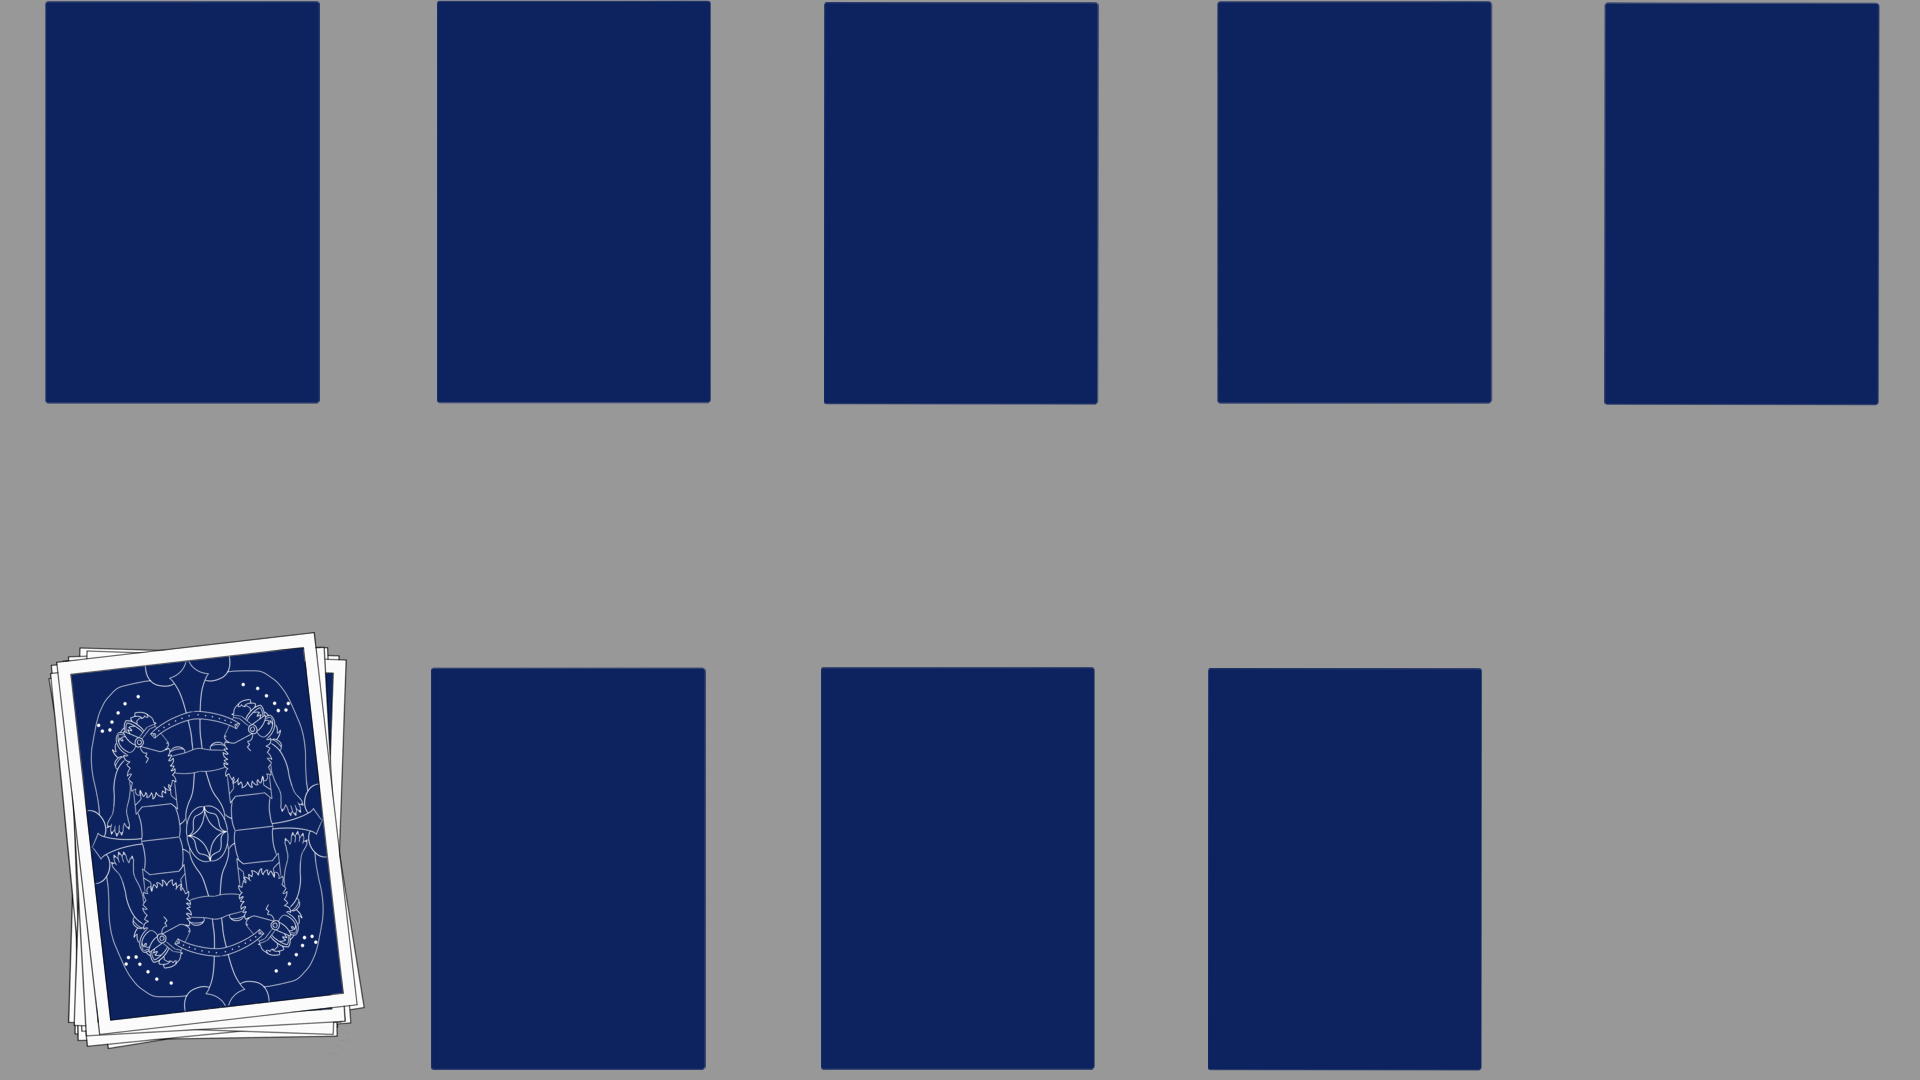
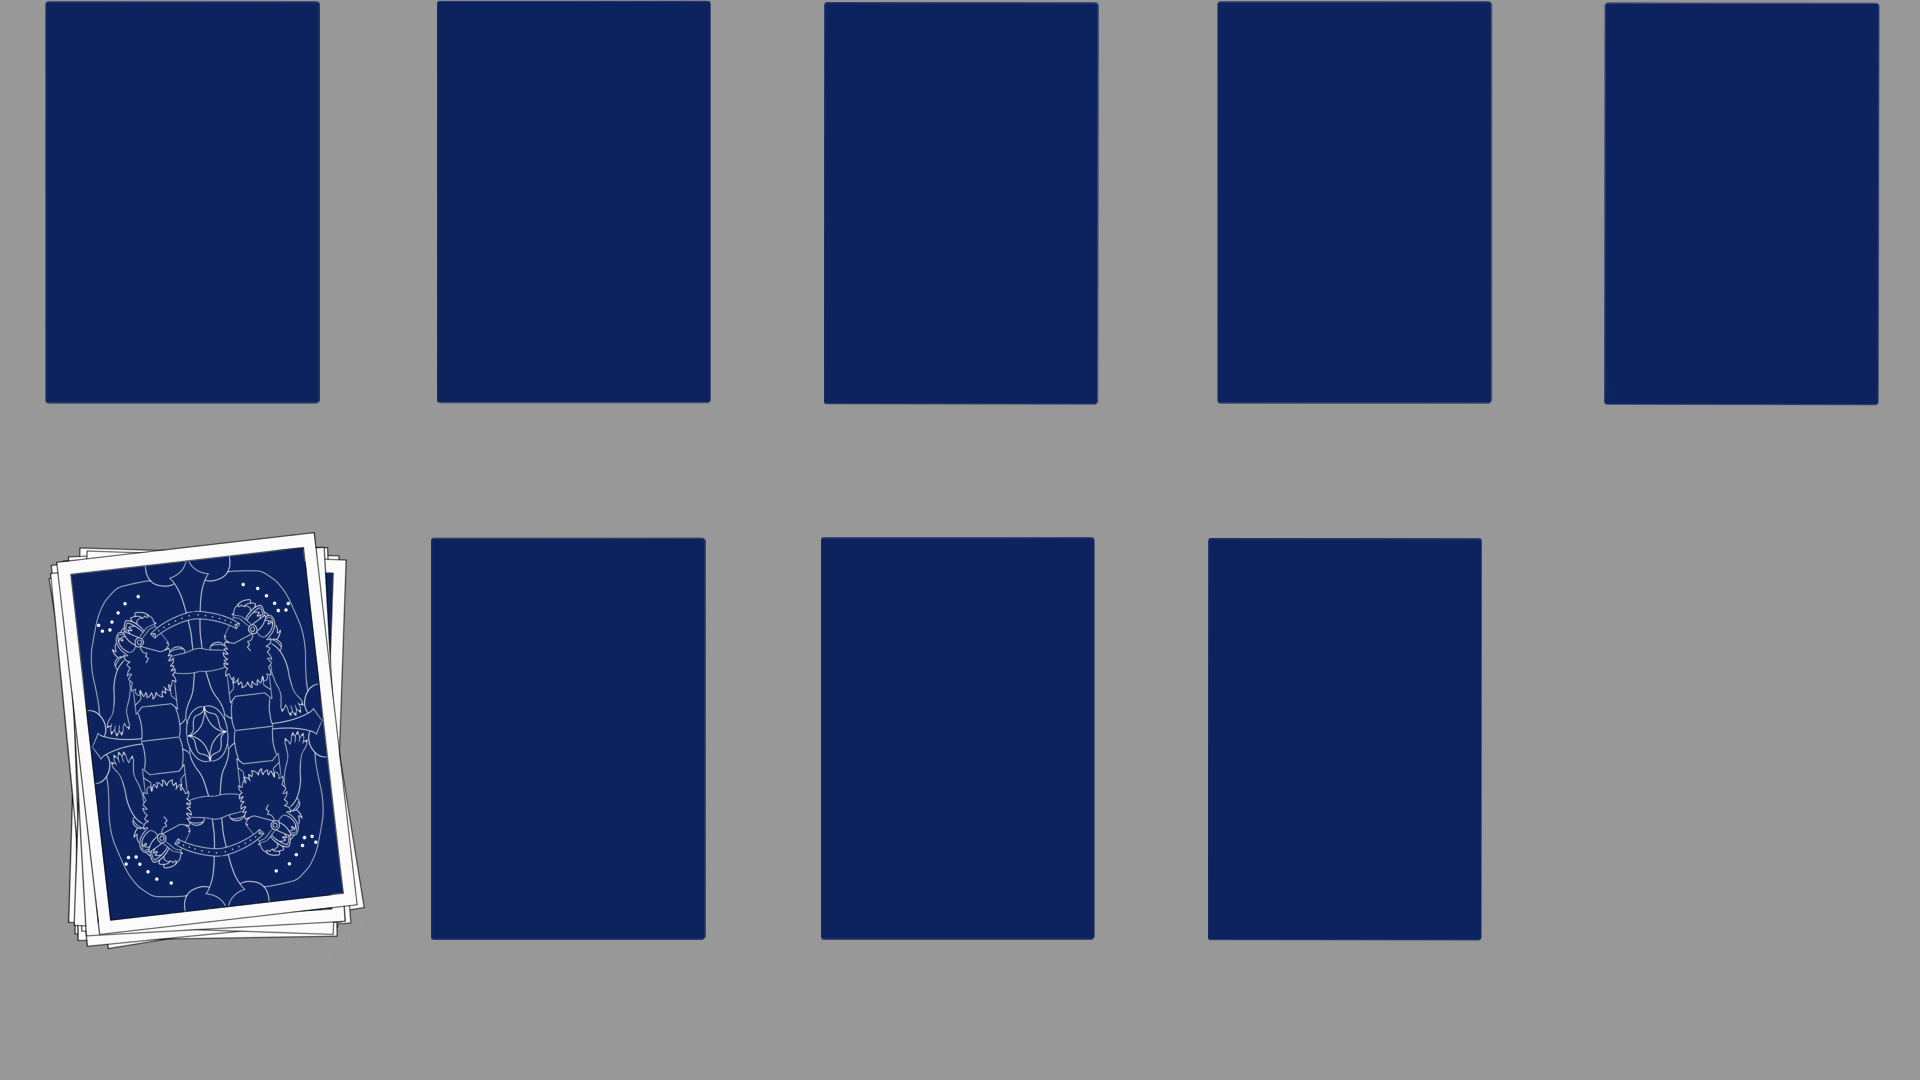
ui is started

diff --git a/GameBoard.java b/GameBoard.java
@@ -5,7 +5,13 @@ import java.util.ArrayList;
 public class GameBoard {
     static final JLabel LABEL = new JLabel();
     static final JLabel TEXT1 = new JLabel();
-    static final JLabel SCORE = new JLabel();
+    static final JLabel TEXT2 = new JLabel();
+    static final JLabel[] INFO_PANNEL = {
+            new JLabel("Paycheck:"),
+            new JLabel("Floor:"),
+            new JLabel("Next Rest Floor:"),
+            new JLabel(""),
+    };
     static final JLabel[] INDEX_LABELS = {
             new JLabel(),
             new JLabel(),
@@ -28,14 +34,14 @@ public class GameBoard {
             new JLabel(),
     };
     static final int[][] INDEX_POSITIONS = {
-            {180,450},
-            {550,450},
-            {950,450},
-            {1350,450},
-            {1750,450},
-            {540,575},
-            {930,575},
-            {1330,575},
+            {190,425},
+            {555,425},
+            {957,425},
+            {1350,425},
+            {1745,425},
+            {555,925},
+            {957,925},
+            {1340,925},
     };
     static final int[][] CARD_POSITIONS = {
             {40,0},
@@ -43,17 +49,17 @@ public class GameBoard {
             {820,0},
             {1200,0},
             {1600,0},
-            {410,620},
-            {800,620},
-            {1200,620},
+            {410,500},
+            {820,500},
+            {1200,500},
     };
     static final JTextField INPUT = new JTextField(10);
     static final JFrame SYSTEM = new JFrame("");
-    static final ImageIcon UI = new ImageIcon("ui_images/ui.png");
-    private final Character[] AVAILABLE_PARTY_MEMBERS = new Character[]{
+    private final Character[] AVAILABLE_PARTY_MEMBERS = new Character[] {
 
     };
     private final int[] ESCAPE_FLOORS = {1, 4, 9, 16, 25, 36, 49, 64, 81, 100};
+    private int currentFloor = 0;
 
     public static Deck deck;
     private ArrayList<Character> team = new ArrayList<>();
@@ -61,8 +67,20 @@ public class GameBoard {
 
     public GameBoard(Deck cards) {
         deck = cards;
+        //text 1 2 setup
+
+        SYSTEM.add(TEXT1);
         TEXT1.setFont(new Font("Arial", Font.BOLD, 20));
-        SCORE.setFont(new Font("Arial", Font.BOLD, 12));
+        TEXT1.setHorizontalAlignment(0);
+        TEXT1.setBounds(0,1000, 1920, 20);
+
+        SYSTEM.add(TEXT2);
+        TEXT2.setFont(new Font("Arial", Font.BOLD, 20));
+        TEXT2.setHorizontalAlignment(0);
+        TEXT2.setBounds(0,1020, 1920, 20);
+
+
+        //card system setup
         for(int i=0; i<CARD_IMAGES.length; i++) {
             SYSTEM.add(CARD_IMAGES[i]);
             CARD_IMAGES[i].setIcon(new ImageIcon("Cards/mir.png"));
@@ -71,14 +89,18 @@ public class GameBoard {
         }
         for(int i=0; i<INDEX_LABELS.length; i++) {
             SYSTEM.add(INDEX_LABELS[i]);
-            INDEX_LABELS[i].setText("Test");
+            INDEX_LABELS[i].setText(i+1+"");
             Dimension size = INDEX_LABELS[i].getPreferredSize();
+            INDEX_LABELS[i].setFont(new Font("Arial", Font.BOLD, 12));
             INDEX_LABELS[i].setBounds(INDEX_POSITIONS[i][0], INDEX_POSITIONS[i][1], size.width, size.height);
         }
-
-
-
-
+        //INFO_PANNEL setup
+        for(int i=0; i<INFO_PANNEL.length; i++) {
+            SYSTEM.add(INFO_PANNEL[i]);
+            INFO_PANNEL[i].setFont(new Font("Arial", Font.BOLD, 20));
+            INFO_PANNEL[i].setBounds(1600, CARD_POSITIONS[i][1], 200,20);
+        }
+        //final setup
         INPUT.setEditable(false);
         SYSTEM.setResizable(false);
         SYSTEM.add(INPUT, BorderLayout.SOUTH);
@@ -93,7 +115,8 @@ public class GameBoard {
         INPUT.setText(" ");
         INPUT.setEditable(true);
         INPUT.requestFocus();
-        TEXT1.setText(str + "\n>Press any key<");
+        TEXT1.setText(str);
+        TEXT2.setText(">Press any key<");
 
         while (INPUT.getText().equals(" ")) ;
         INPUT.setEditable(false);
@@ -166,7 +189,7 @@ public class GameBoard {
 
     public void addScore(int add) {
         this.score += add;
-        SCORE.setText("Score: " + score);
+        INFO_PANNEL[0].setText("Score: " + score);
     }
 
     public ArrayList<Card> resolveLootEffects(ArrayList<Card> loot) {

diff --git a/Main.java b/Main.java
@@ -7,10 +7,10 @@ public class Main {
     public static void main(String[] args) {
         GameBoard gameBoard = new GameBoard(deck);
         //explain the idea
-        gameBoard.sPrintln("Welcome to Lockheed Martin HQ");
+        gameBoard.sPrintln("Welcome to Shadow Government HQ");
         gameBoard.sPrintln("I contracted you to steal some important documents for us and take out some higher-ups");
-        gameBoard.sPrintln("Dont worry about the money Boeing will pay you handsomely");
-        gameBoard.sPrintln("The Goal is to get Boeing all the goods you can get without dying");
+        gameBoard.sPrintln("Dont worry about the money I will pay you handsomely");
+        gameBoard.sPrintln("The Goal is to get me all the goods you can get without dying");
         gameBoard.addScore(0);
 
         //Explaining the game
